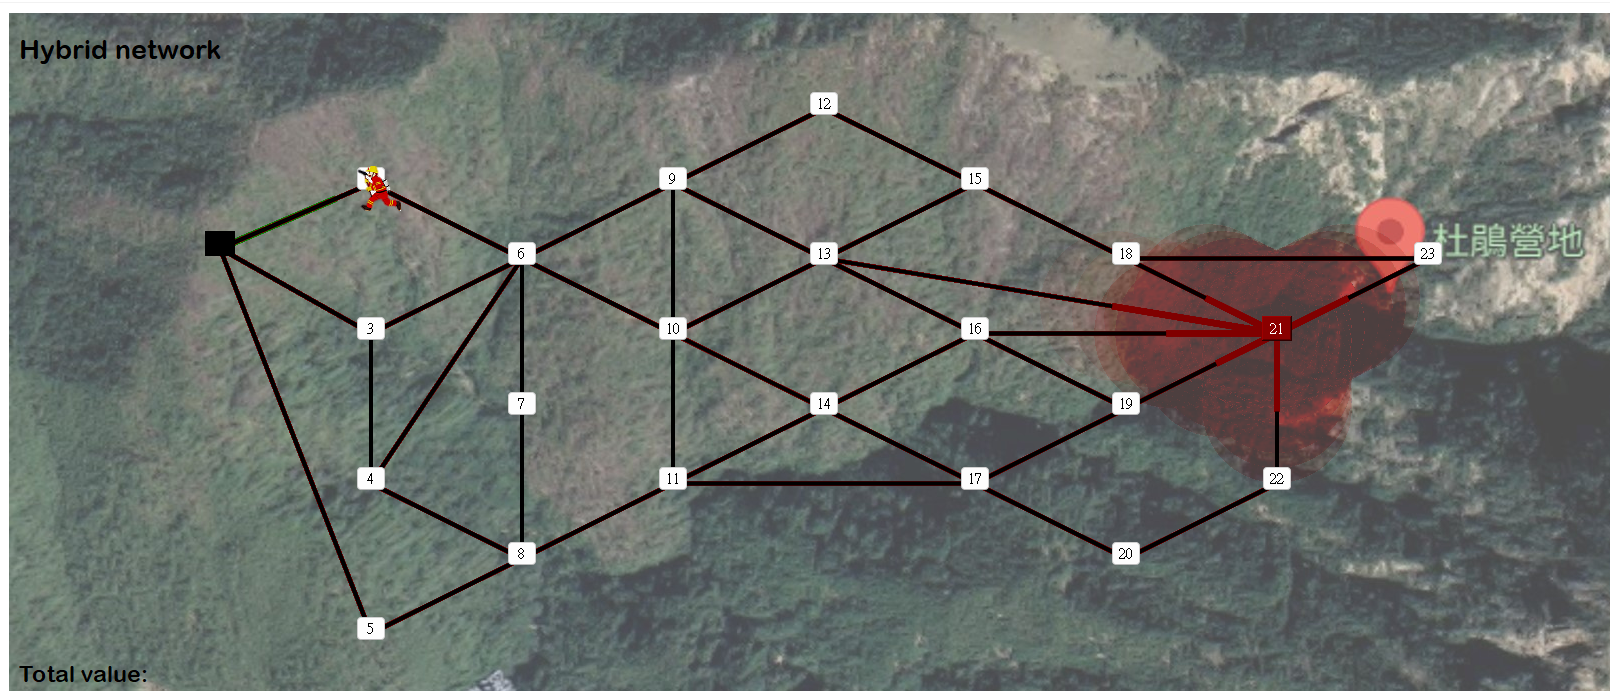
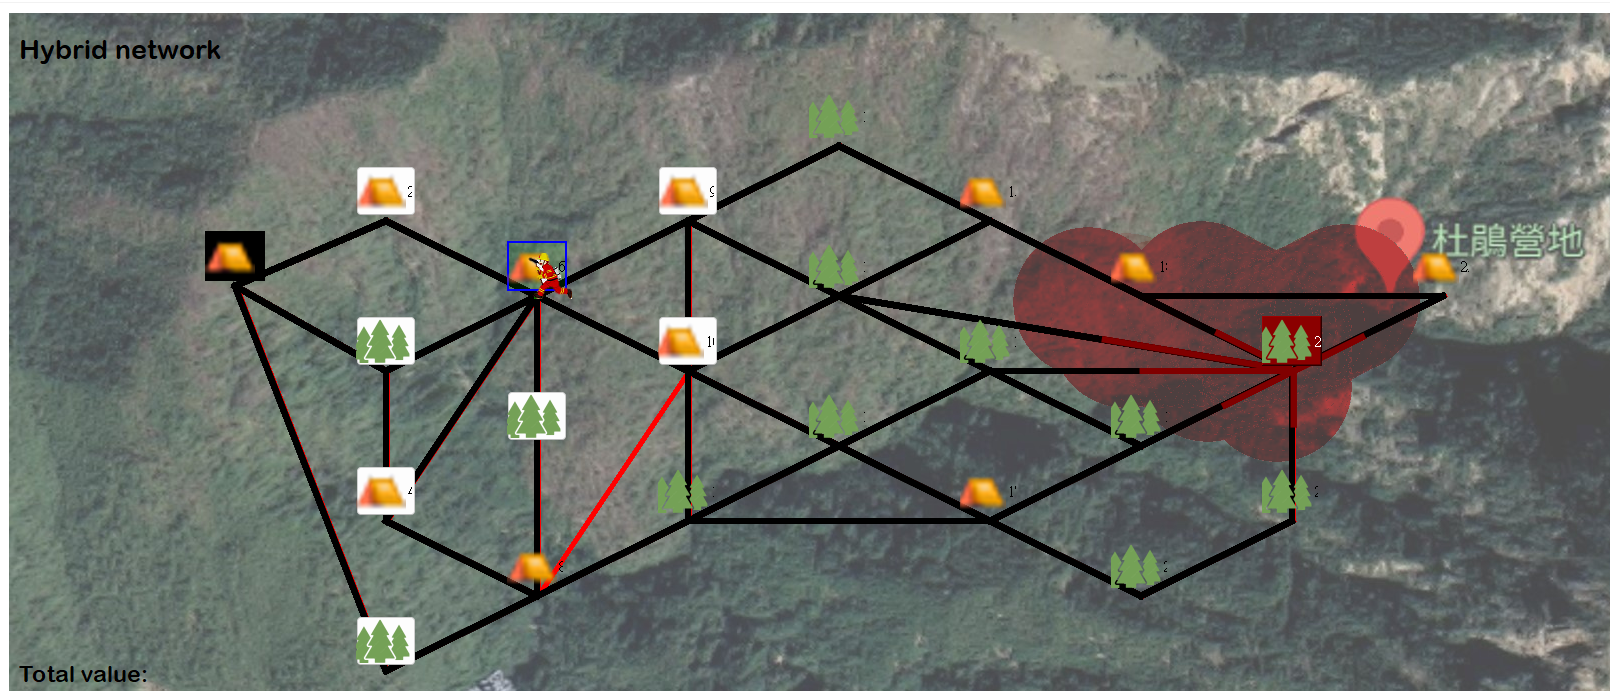
update

Changed region(s): [[0.1242, 0.1216, 0.9006, 0.8813], [0.2174, 0.8509, 0.3106, 0.9725]]

diff --git a/controller.py b/controller.py
@@ -3,13 +3,11 @@
 import json
 import os
 from functools import partial
-
 from PyQt5.QtCore import QTimer, QPropertyAnimation, QPoint, Qt, QPointF,pyqtSignal
 from PyQt5.QtWidgets import QGraphicsOpacityEffect, QVBoxLayout, QLabel, QSizePolicy, QPushButton, QWidget
 from PyQt5 import QtWidgets, QtCore, QtGui
 import random
 import math
-
 from FFSettingsWindow import FFSettingsWindow
 from FFSettingsWindow import FFnumWindow
 from FF import FireFighter
@@ -60,6 +58,8 @@ class MainWindow_controller(QtWidgets.QMainWindow):
         global FFNum
         if mode == 1:
             uic.loadUi("UIv4.ui",self)
+            self.inst = Instruction(self.centralWidget())
+            self.inst.intoGame()
         elif mode == 2:
             uic.loadUi("case1.ui",self)
             pixmap = QPixmap("image/case1.jpg")
@@ -70,8 +70,7 @@ class MainWindow_controller(QtWidgets.QMainWindow):
             FFNum = int(data["FFnumber"])
         #self.db = DataBase()
         #self.nw = InformationWindow(self.db)
-        #self.inst = Instruction(self.centralWidget())
-        #self.inst.intoGame()
+
         self.firefighterNum = FFNum
         self.subwindows = []
         self.setup_control()
@@ -94,20 +93,19 @@ class MainWindow_controller(QtWidgets.QMainWindow):
                 node = Node(self.gamewidget, i)
                 node.raise_()
                 if self.mode == 2:
-                    # node.setFlat(True)
-                    # tentList = [1,2,4,6,8,9,10,15,17,18,23]
-                    # forestList = [3,5,7,11,12,13,14,16,19,20,21,22]
-                    # if i.getNum() in tentList:
-                    #     node.setFixedSize(60,50)
-                    #     image1 = QIcon("image/tent.png")
-                    #     node.setIcon(image1)
-                    #     node.setIconSize(QtCore.QSize(50, 50))
-                    # elif i.getNum() in forestList:
-                    #     node.setFixedSize(75,50)
-                    #     image = QIcon("image/tree.png")
-                    #     node.setIcon(image)
-                    #     node.setIconSize(QtCore.QSize(60, 50))
-                    node.setFlat(False)
+                    node.setFlat(True)
+                    tentList = [1,2,4,6,8,9,10,15,17,18,23]
+                    forestList = [3,5,7,11,12,13,14,16,19,20,21,22]
+                    if i.getNum() in tentList:
+                        node.setFixedSize(60,50)
+                        image1 = QIcon("image/tent.png")
+                        node.setIcon(image1)
+                        node.setIconSize(QtCore.QSize(50, 50))
+                    elif i.getNum() in forestList:
+                        node.setFixedSize(60,50)
+                        image = QIcon("image/tree.png")
+                        node.setIcon(image)
+                        node.setIconSize(QtCore.QSize(60, 50))
                 node.clicked.connect(self.choose)
                 node.showSignal.connect(self.InfoShow)
                 self.nodeList.append(node)
@@ -694,8 +692,8 @@ class MainWindow_controller(QtWidgets.QMainWindow):
                             QPointF(j.x() + self.gamewidget.x() + j.width() / 2, j.y() + 5 / 2 * j.height()))
                     elif self.mode == 2:
                         qpainter.drawLine(
-                            QPointF(i.x()  + i.width() / 2, i.y() + 3 / 2 * i.height()),
-                            QPointF(j.x()  + j.width() / 2, j.y() + 3 / 2 * j.height()))
+                            QPointF(i.x()  +  2.1 * i.width() / 2, i.y() + 6 / 2 * i.height()),
+                            QPointF(j.x()  +  2.1 * j.width() / 2, j.y() + 6 / 2 * j.height()))
 
             for i in self.nodeList:
                 i.setText(str(i.getFireMinArrivalTime()))
@@ -710,9 +708,18 @@ class MainWindow_controller(QtWidgets.QMainWindow):
                             QPointF(i.x() + self.gamewidget.x() + i.width() / 2, i.y() + 5 / 2 * i.height()),
                             QPointF(j.x() + self.gamewidget.x() + j.width() / 2, j.y() + 5 / 2 * j.height()))
                     elif self.mode == 2:
+                        qpen = QPen(Qt.black, 6, Qt.SolidLine)
+                        qpainter.setPen(qpen)
                         qpainter.drawLine(
                             QPointF(i.x()  + i.width() / 2, i.y() + 3 / 2 * i.height()),
                             QPointF(j.x()  + j.width() / 2, j.y() + 3 / 2 * j.height()))
+                        if i.getNodePercentage_FF(self.firefighterList[self.FFindex].rate_extinguish)>=0.5 and j.getNodePercentage_FF(self.firefighterList[self.FFindex].rate_extinguish)>=0.5 :
+                            qpen = QPen(Qt.yellow, 6, Qt.SolidLine)
+                            qpainter.setPen(qpen)
+                            qpainter.drawLine(
+                                QPointF(i.x() + i.width() / 2, i.y() + 3 / 2 * i.height()),
+                                QPointF(j.x() + j.width() / 2, j.y() + 3 / 2 * j.height()))
+
         for i in self.fire:
             for j in i.getArcs():
                     tempXpercent = (j["node"].x() + j["node"].width()/2 - i.x() - i.width()/2) * i.getArcPercentage_Fire(j)
@@ -722,7 +729,7 @@ class MainWindow_controller(QtWidgets.QMainWindow):
                     if self.mode == 1:
                         qpainter.drawLine(QPointF(i.x() + self.gamewidget.x() + i.width()/2, i.y() + 5/2*i.height()), QPointF(i.x() + self.gamewidget.x() + i.width()/2 + tempXpercent, i.y() + 5/2*i.height() + tempYpercent))
                     elif self.mode == 2:
-                        qpainter.drawLine(QPointF(i.x() + i.width()/2, i.y() + 3/2*i.height()), QPointF(i.x()  + i.width()/2 + tempXpercent, i.y() + 3/2*i.height() + tempYpercent))
+                        qpainter.drawLine(QPointF(i.x() + 2.1 * i.width()/2, i.y() + 6/2*i.height()), QPointF(i.x()  + 2.1 * i.width()/2 + tempXpercent, i.y() + 6/2*i.height() + tempYpercent))
                         current_x = int(i.x() + tempXpercent - 4*i.width()/2)
                         current_y = int(i.y() + tempYpercent - 3*i.height()/2)
                         qpainter.setPen(Qt.NoPen)
@@ -730,6 +737,7 @@ class MainWindow_controller(QtWidgets.QMainWindow):
                         brush = QBrush(QColor(100, 0, 0, 2))
                         qpainter.setBrush(brush)
                         qpainter.drawEllipse(current_x, current_y, 150, 150)
+
 
         for i in self.firefighterList:
             if(i.destination() != None):

diff --git a/FF.py b/FF.py
@@ -209,8 +209,11 @@ class FireFighter(QLabel):
         self.timer_arrow.stop()
 
         for i in lst:
+            if not i.isBurned:
+                i.setFlat(False)
             i.setStyleSheet(i.getStyle())
             i.timer_nodeOpacity.stop()
+
 
     def getArcPercentage_FF(self, node): #獲得消防員在arc上的移動進度
         for i in self.curPos().getArcs():
